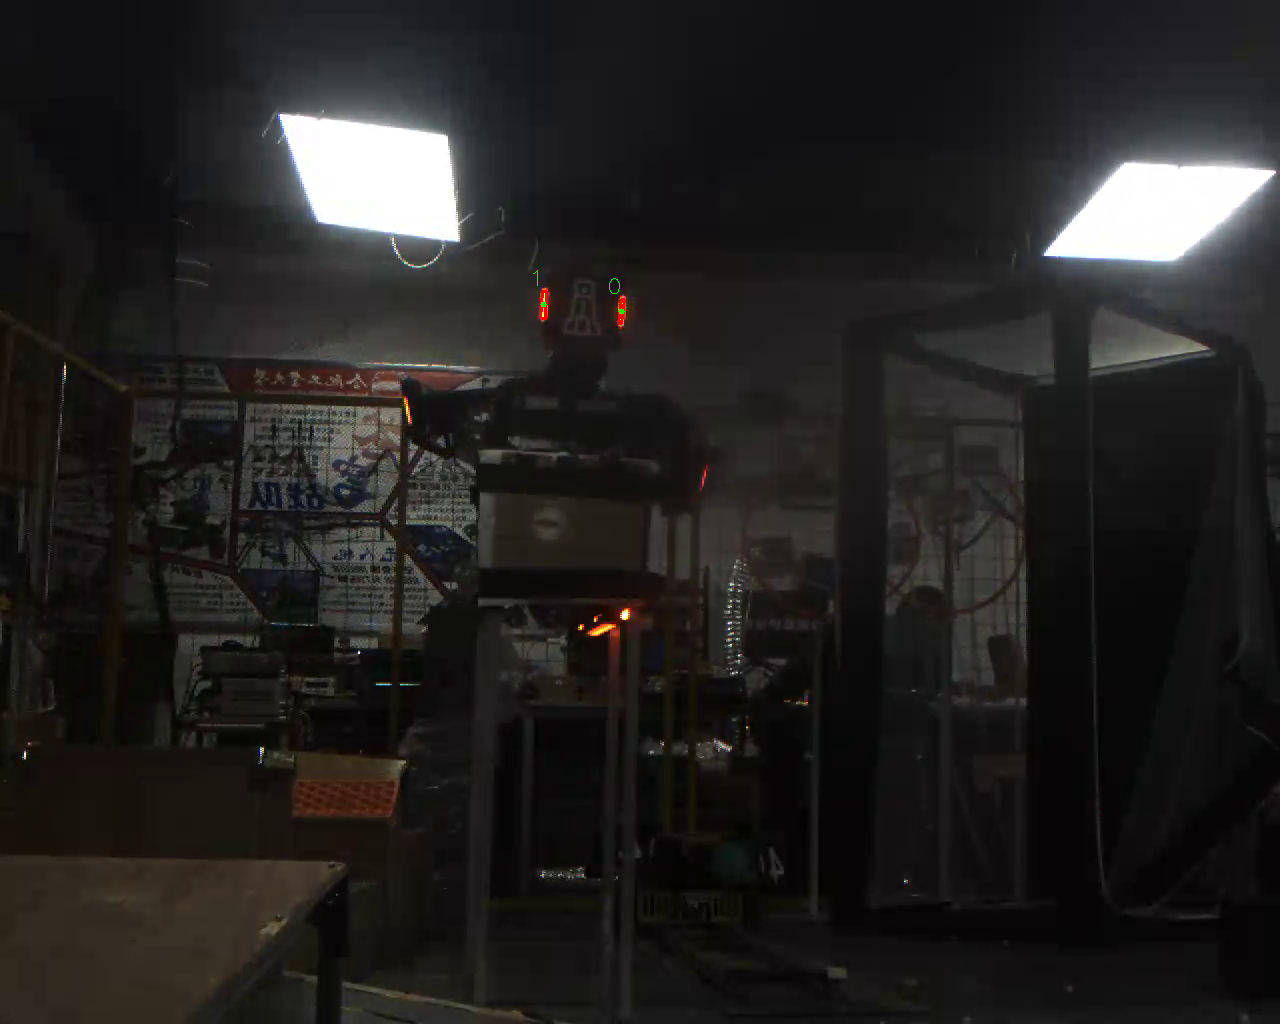
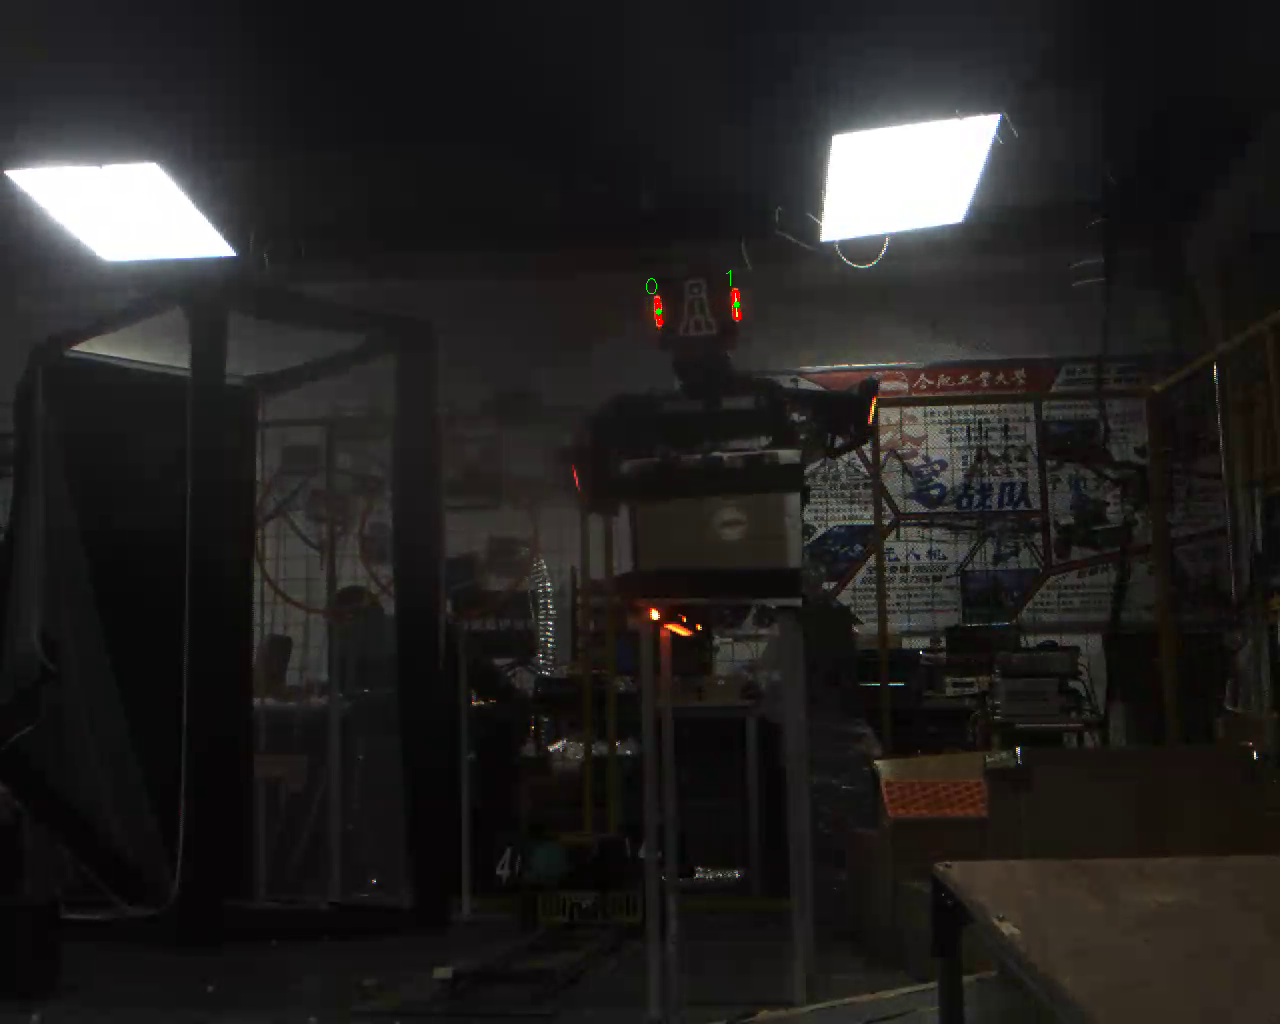
Fix flip: use 180-degree rotation instead of vertical mirror

diff --git a/armor.cpp b/armor.cpp
@@ -5,7 +5,7 @@
 Mat Photo::flipped(const Mat &image) {
     Mat image_flipped;
 
-    flip(image,image_flipped,0);
+    flip(image,image_flipped,-1);
     return image_flipped;
 }
 

diff --git a/README.md b/README.md
@@ -125,9 +125,12 @@ struct DetectDebug {
 
 ```cpp
 while (cap.read(frame)) {
-    Mat image;
-    flip(frame, image, 0);                    // 翻正
-    vector<Armor> armors = detect_armors(image);   // ← 一行
+    // 直接在原始帧上检测：角点坐标与相机内参必须来自同一套图像
+    vector<Armor> armors = detect_armors(frame);
+
+    // 若希望结果画面正立，可另取一份画布旋转 180° 后绘制（仅影响观感）
+    Mat canva;
+    flip(frame, canva, -1);
     // 绘制、显示……
     waitKey(1);                                // 注意不能用 waitKey(0)
 }
@@ -195,5 +198,5 @@ while (cap.read(frame)) {
 - **只保留了灯条白芯**：灰度阈值只取最亮部分，实测灯条宽度约 5~6 px（真实 8~9 px），
   `minAreaRect` 的角度估计存在少量噪声，装甲板框比真实尺寸略小
 - **侧视会漏检**：机器人在转动时装甲板接近侧视，只能看到一根灯条，单帧无法配对
-- **预处理含一次垂直翻转**（`flip(0)`），前提是视频帧上下颠倒；换用其他来源的图片时需确认朝向
+- **预处理含一次 180° 旋转**（`flip(-1)`），前提是视频帧上下颠倒；换用其他来源的图片时需确认朝向
 - **单帧无跟踪**：帧与帧之间没有关联，目标短暂丢失后无法靠历史信息恢复
